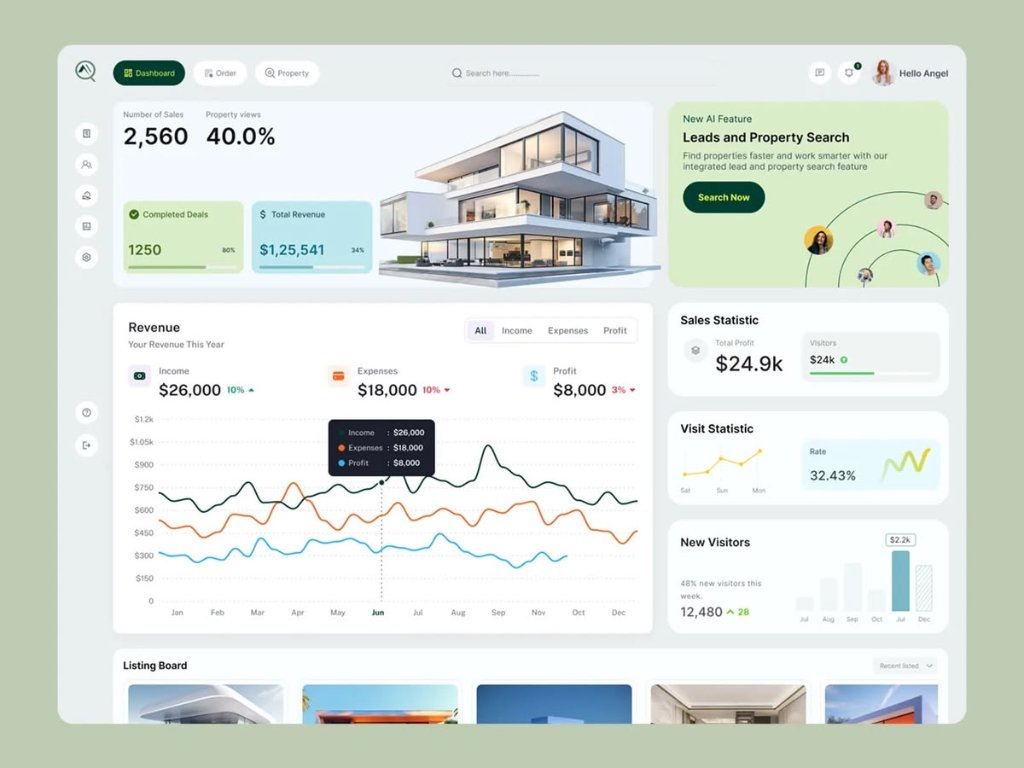
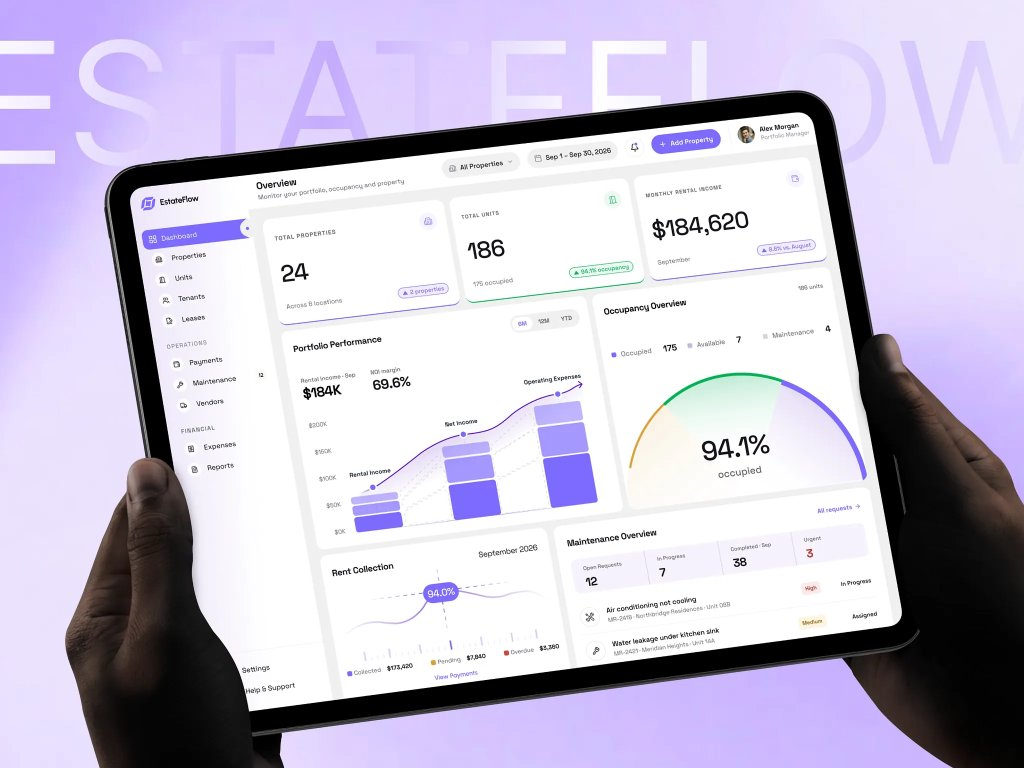
feat(marketing): update hero dashboard image to high-fidelity handheld tablet mockup

diff --git a/apps/web/src/marketing/HomePage.tsx b/apps/web/src/marketing/HomePage.tsx
@@ -317,47 +317,21 @@ export const HomePage: React.FC = () => {
               <DocumentTextIcon style={{ width: '24px', height: '24px', color: '#F59E0B' }} />
             </div>
 
-            {/* Tilted 3D Background Card Layer peaking from behind */}
-            <div
-              className="hero-3d-layer-behind"
-              style={{
-                position: 'absolute',
-                top: '-24px',
-                left: '20px',
-                right: '20px',
-                height: '520px',
-                borderRadius: '28px',
-                overflow: 'hidden',
-                boxShadow: '0 20px 50px rgba(0,0,0,0.06)',
-                transform: 'rotate(-2.5deg) scale(0.96)',
-                opacity: 0.5,
-                zIndex: 0,
-                border: '1px solid #CBD5E1',
-                pointerEvents: 'none',
-              }}
-            >
-              <img
-                src="/layered-3d-compliance.jpg"
-                alt="3D Multi-Layered Overview"
-                style={{ width: '100%', height: '100%', objectFit: 'cover' }}
-              />
-            </div>
-
-            {/* Foreground 3D Interactive Framer Motion Dashboard Card */}
+            {/* Foreground 3D Interactive Framer Motion Dashboard Tablet */}
             <motion.div
               whileHover={{
-                rotateX: -2,
-                rotateY: 2,
-                scale: 1.01,
-                boxShadow: '0 35px 80px -15px rgba(37, 99, 235, 0.22)',
+                rotateX: -1.5,
+                rotateY: 1.5,
+                scale: 1.015,
+                boxShadow: '0 35px 85px -15px rgba(99, 102, 241, 0.28)',
               }}
               transition={{ type: 'spring', stiffness: 260, damping: 20 }}
               style={{
                 position: 'relative',
-                borderRadius: '24px',
+                borderRadius: '28px',
                 overflow: 'hidden',
-                boxShadow: '0 30px 70px -15px rgba(37, 99, 235, 0.18), 0 0 1px rgba(15, 23, 42, 0.08)',
-                border: '1px solid #CBD5E1',
+                boxShadow: '0 25px 70px -15px rgba(99, 102, 241, 0.22), 0 0 1px rgba(15, 23, 42, 0.08)',
+                border: '1px solid rgba(203, 213, 225, 0.7)',
                 backgroundColor: '#FFFFFF',
                 zIndex: 10,
                 transformStyle: 'preserve-3d',
@@ -370,7 +344,6 @@ export const HomePage: React.FC = () => {
                   width: '100%',
                   height: 'auto',
                   display: 'block',
-                  objectFit: 'cover',
                 }}
               />
             </motion.div>
